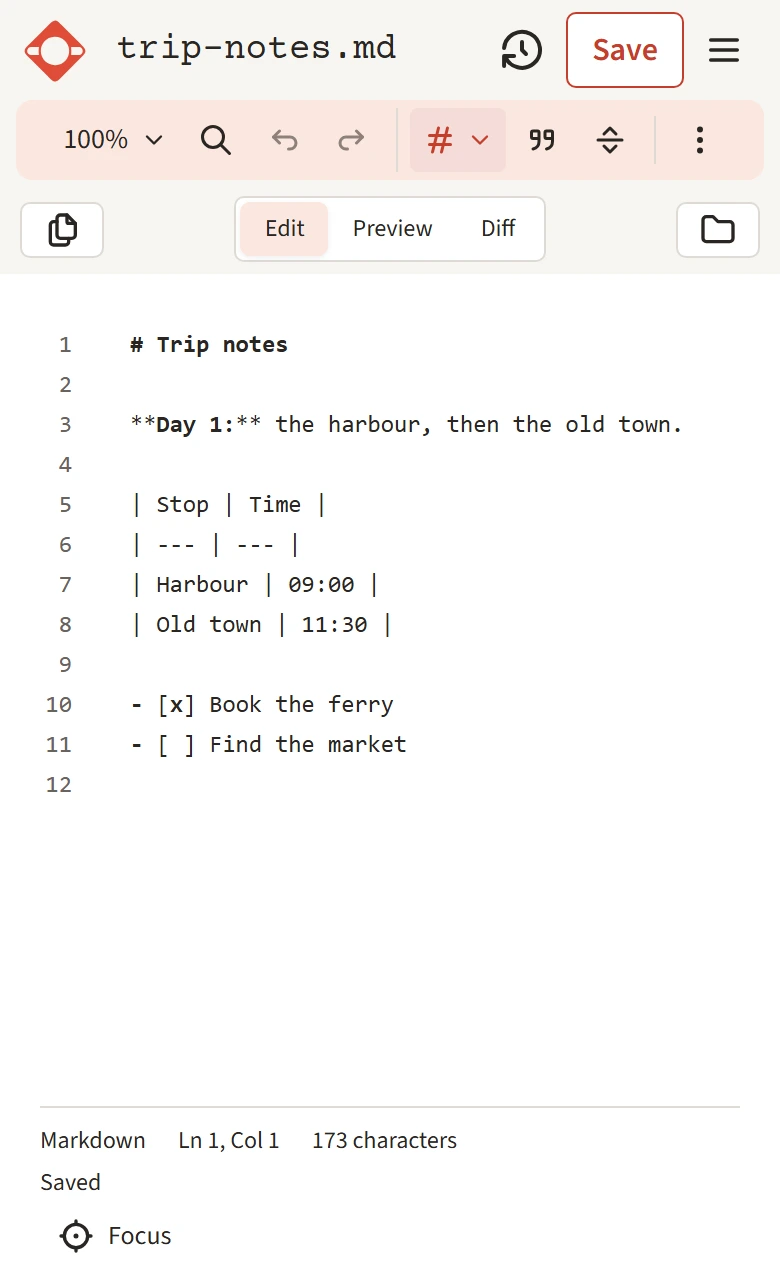
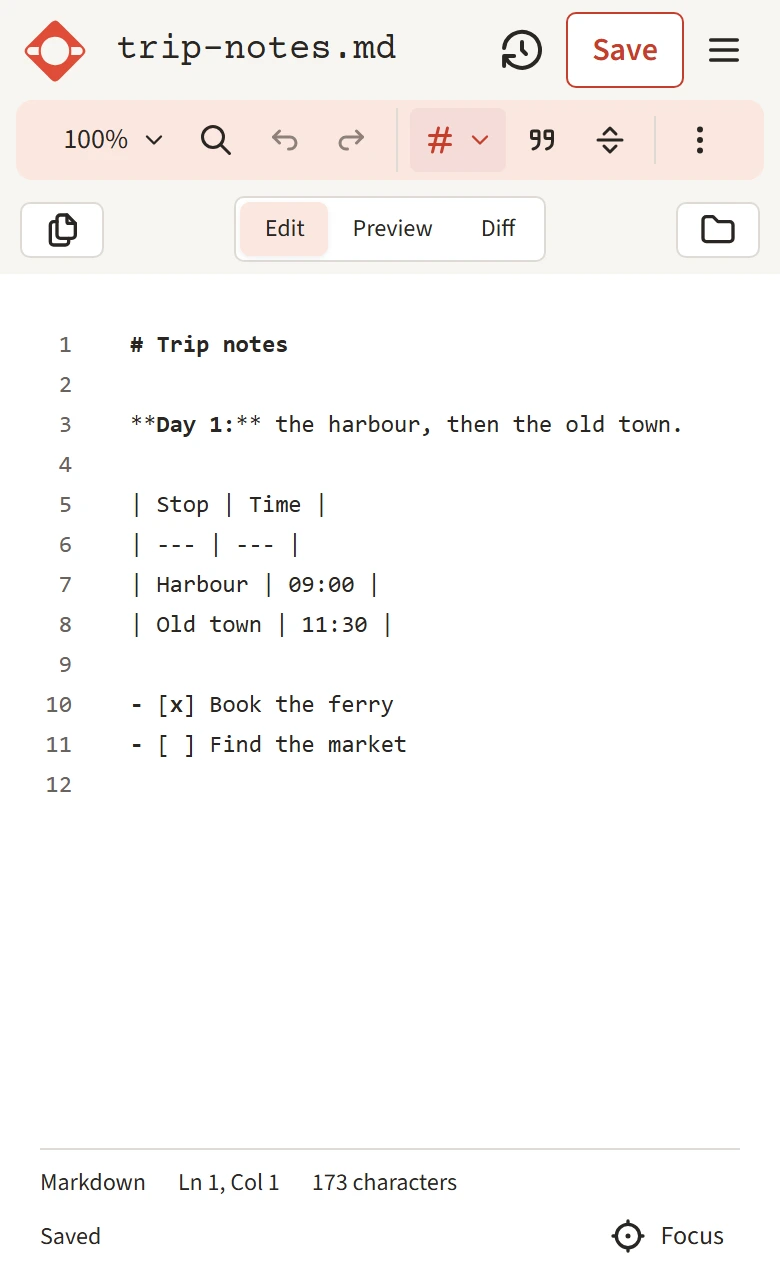
Lay the status footer out in two rows on phones: the file's details, then its save state with Focus

diff --git a/tests/browser/workspace.spec.ts b/tests/browser/workspace.spec.ts
@@ -389,6 +389,19 @@ test('the status footer shows the file on the left, its save state in the middle
   await expect(page.locator('.editor-footer button')).toHaveCount(1);
 });
 
+test('on a phone the status footer puts the file first, then its save state with Focus at the right', async ({ page }) => {
+  await page.setViewportSize({ width: 390, height: 640 });
+  await openText(page, 'first\nsecond line\n');
+  await expectDraftSaved(page);
+  const footer = (await page.locator('.editor-footer').boundingBox())!;
+  const details = (await page.locator('.editor-status').boundingBox())!;
+  const state = (await page.locator('#save-state').boundingBox())!;
+  const focus = (await page.locator('#focus-toggle').boundingBox())!;
+  expect(state.y).toBeGreaterThanOrEqual(details.y + details.height);
+  expect(Math.abs(focus.y + focus.height / 2 - (state.y + state.height / 2))).toBeLessThan(2);
+  expect(Math.abs(focus.x + focus.width - (footer.x + footer.width))).toBeLessThan(1);
+});
+
 test('Focus mode keeps the typing line centred', async ({ page }) => {
   await openText(page, Array.from({ length: 80 }, (_, i) => 'line ' + (i + 1)).join('\n'));
   await expectDraftSaved(page);

diff --git a/src/style.css b/src/style.css
@@ -2896,13 +2896,21 @@ details[open] > summary.folder-row > [data-icon="chevron-right"] {
   .workspace-tools .panel-label {
     display: none;
   }
-  /* The footer's three groups take a row each, in order. */
+  /* The file's details take the first row, the save state and Focus share the second, and a report gets a row of its
+     own beneath. */
   .editor-footer {
-    grid-template-columns: 1fr;
+    grid-template-columns: minmax(0, 1fr) auto;
+  }
+  .editor-status,
+  #file-status {
+    grid-column: 1 / -1;
   }
   .editor-report {
-    justify-content: space-between;
+    display: contents;
     text-align: start;
+  }
+  .editor-footer #focus-toggle {
+    grid-area: 2 / 2;
   }
   #menus-toggle {
     display: inline-flex;

diff --git a/scripts/landing-shots.ts b/scripts/landing-shots.ts
@@ -102,6 +102,7 @@ async function shot(page: Page, name: string, theme: Theme, size: Size, clip?: {
     if (status) status.textContent = '';
     (document.activeElement as HTMLElement | null)?.blur();
     await document.fonts.ready;
+    await new Promise(resolve => setTimeout(resolve, 200));
   });
   await page.mouse.move(sizes[size].width - 2, sizes[size].height / 2);
   const png = await page.screenshot({ clip, animations: 'disabled', caret: 'hide' });
